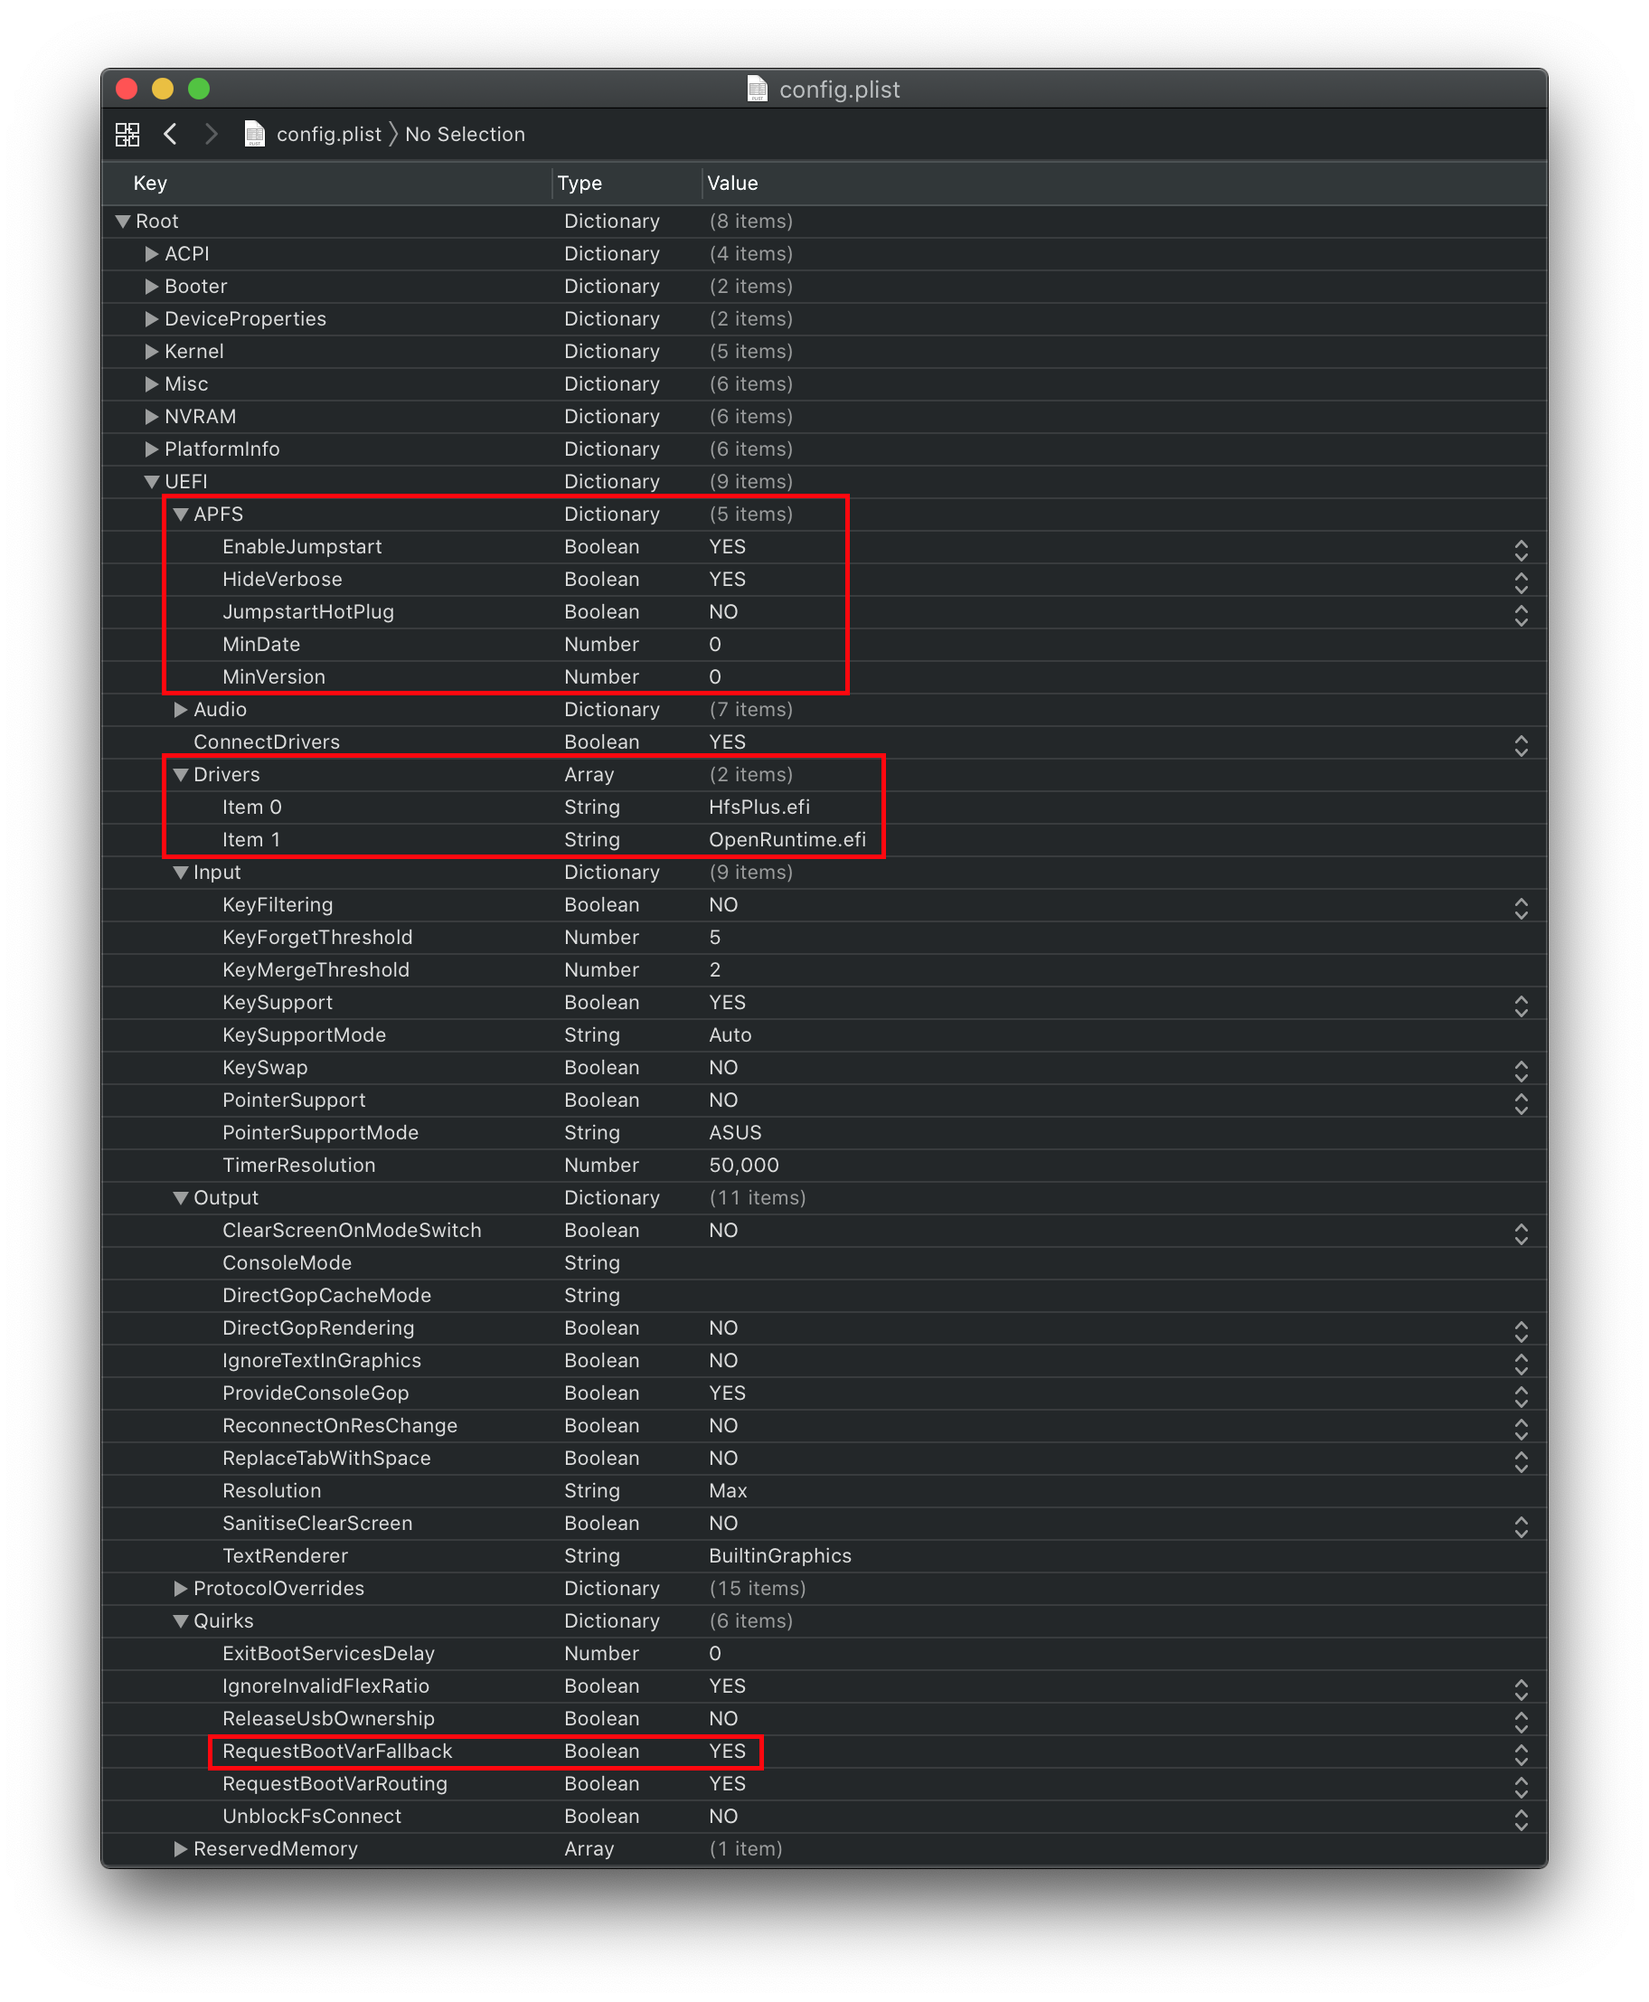
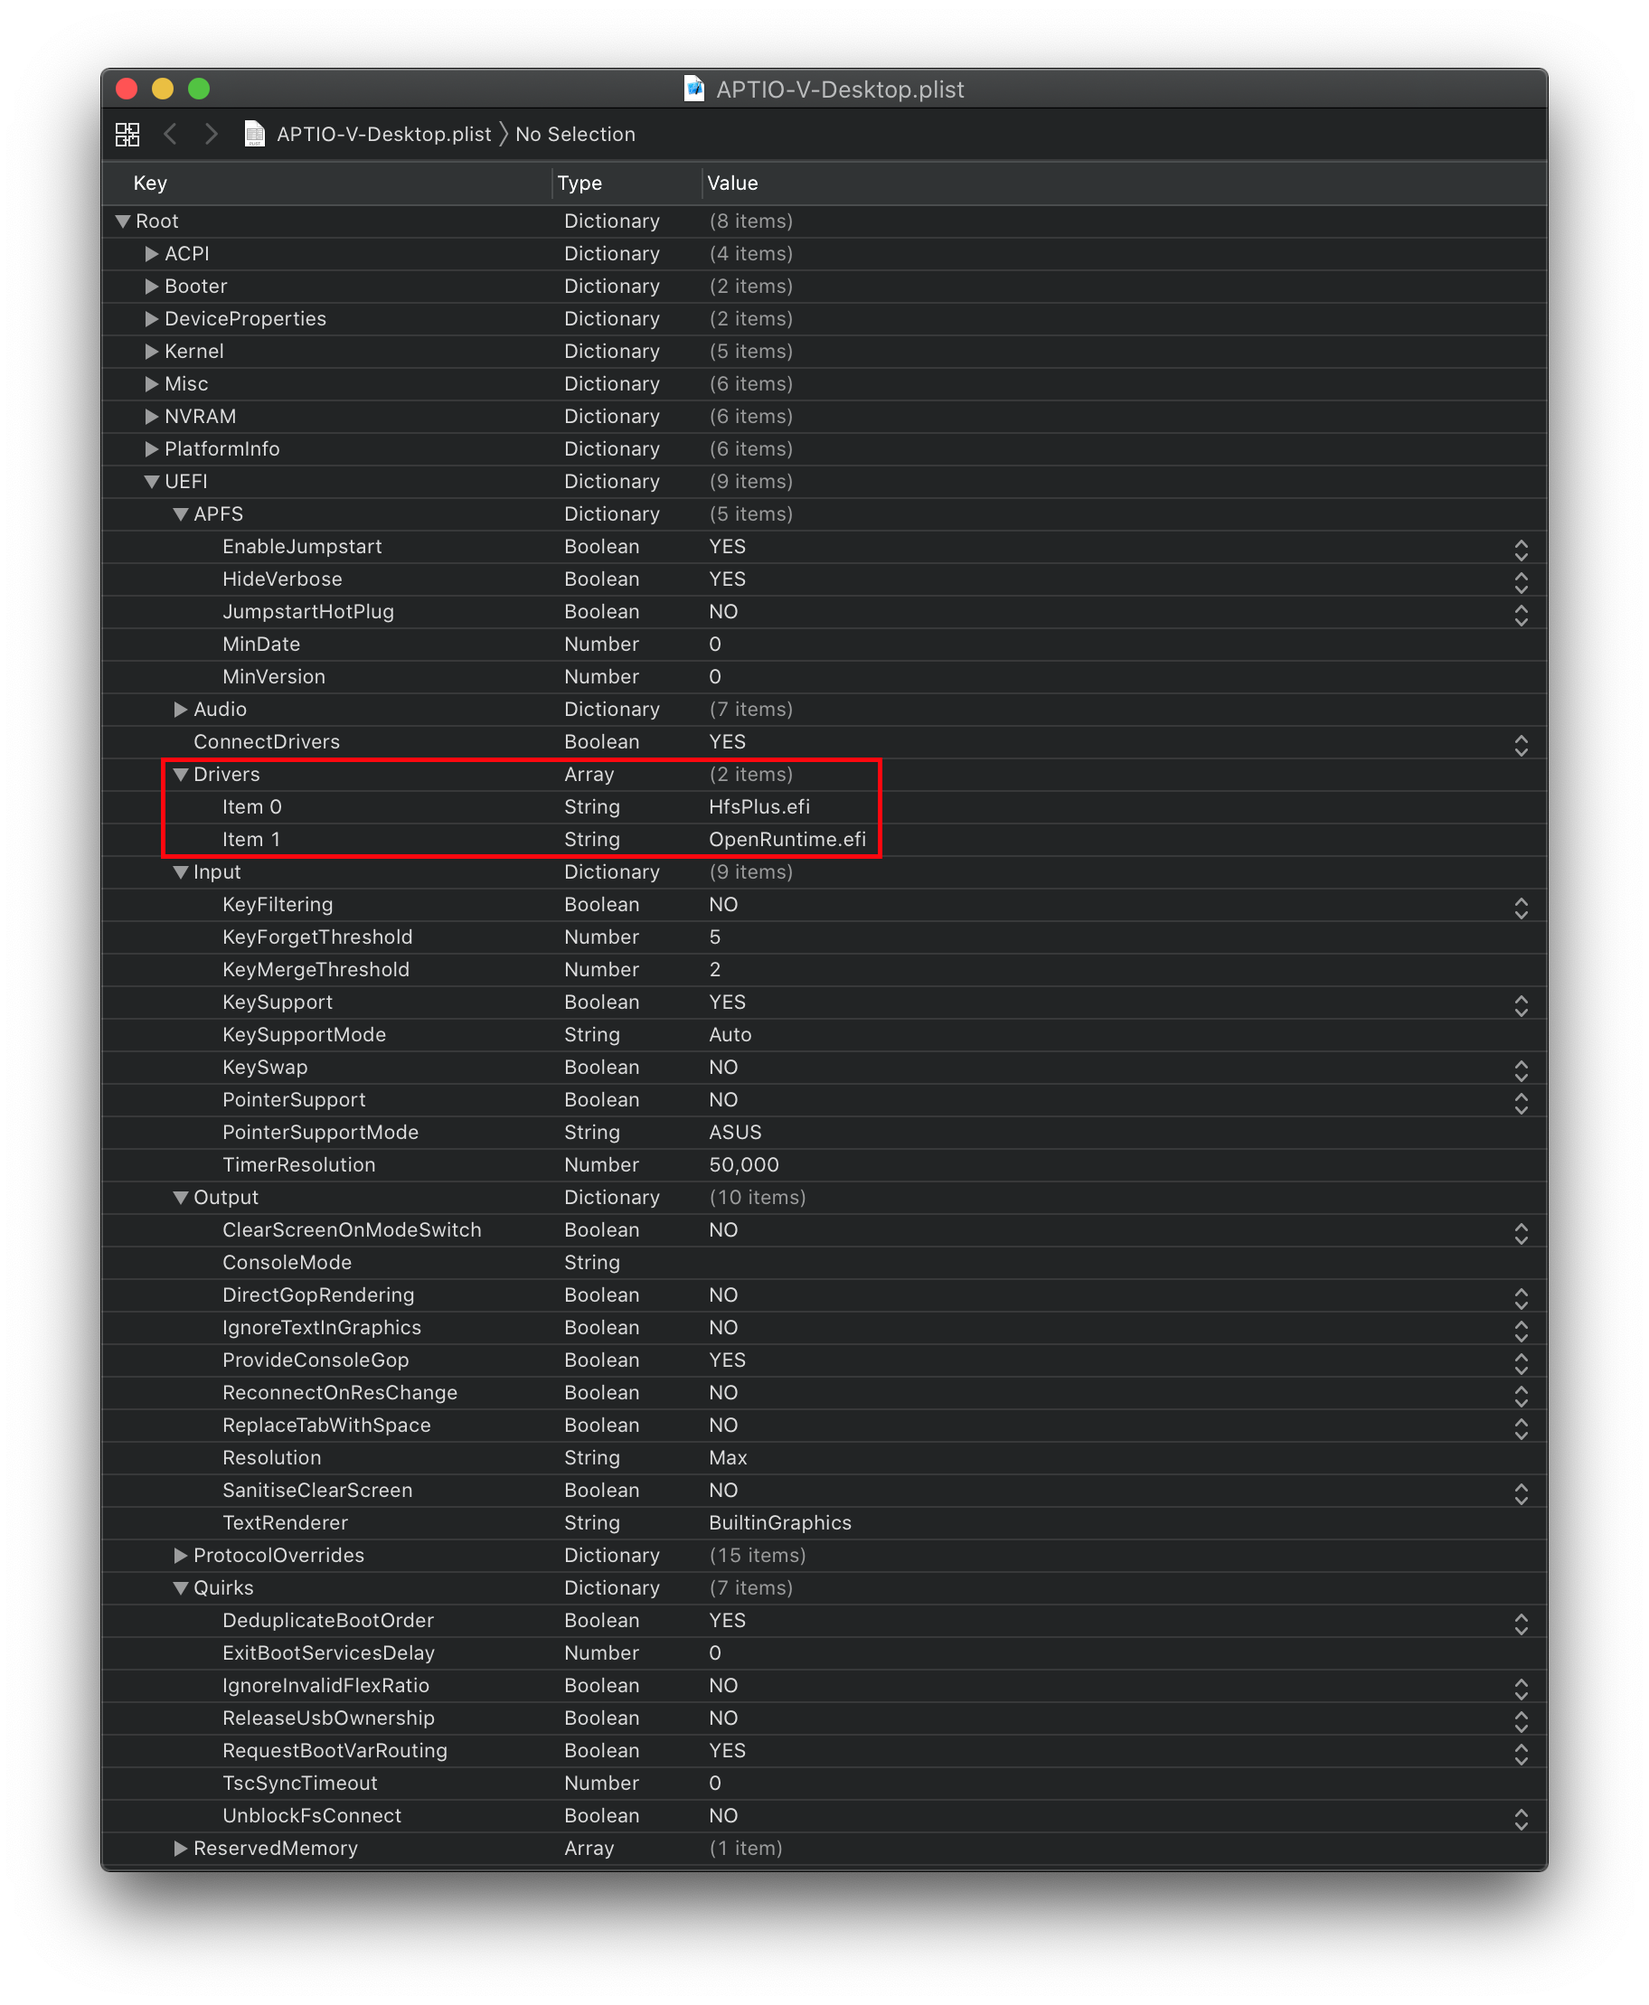
Final 0.5.9 touchups

diff --git a/config.plist/comet-lake.md b/config.plist/comet-lake.md
@@ -1,6 +1,7 @@
 # Comet Lake
 
-* Supported version: 0.5.8
+* Supported version: 0.5.9
+* **Note**: This guide only supports Comet Lake on 10.15.5 or newer
 
 Table of Contents:
 
@@ -193,7 +194,7 @@ Fun Fact: The reason the byte order is swapped is because most modern processors
   * Path to the `info.plist` hidden within the kext
   * ex: `Contents/Info.plist`
 
-**Emulate**: Needed for spoofing unsupported CPUs, thankfully in 10.15.5 Comet Lake S support was added so no need to spoof here.
+**Emulate**: Needed for spoofing unsupported CPUs, thankfully in 10.15.5 Comet Lake S support was added so no need to spoof here. For those running High Sierra or Mojave, you will need the below to spoof to a supported CPU model(due to stability issues, this guide will not go over such CPUID spoofs)
 
 **Block**: Blocks kexts from loading. Not relevant for us
 
@@ -544,16 +545,18 @@ Only drivers present here should be:
 
 **Quirks**:
 
+* **DeduplicateBootOrder**: YES
+  * Request fallback of some Boot prefixed variables from `OC_VENDOR_VARIABLE_GUID` to `EFI_GLOBAL_VARIABLE_GUID`. Used for fixing boot options.
 * **ExitBootServicesDelay**: `0`
   * Only required for very specific use cases like setting to `3000` - `5000` for ASUS Z87-Pro running FileVault 2
 * **IgnoreInvalidFlexRatio**: NO
   * Fix for when MSR\_FLEX\_RATIO (0x194) can't be disabled in the BIOS, required for all pre-Skylake based systems
 * **ReleaseUsbOwnership**: NO
   * Releases USB controller from firmware driver, needed for when your firmware doesn't support EHCI/XHCI Handoff. Clover equivalent is `FixOwnership`
-* **RequestBootVarFallback**: YES
-  * Request fallback of some Boot prefixed variables from `OC_VENDOR_VARIABLE_GUID` to `EFI_GLOBAL_VARIABLE_GUID`. Used for fixing boot options.
 * **RequestBootVarRouting**: YES
   * Redirects AptioMemoryFix from `EFI_GLOBAL_VARIABLE_GUID` to `OC\_VENDOR\_VARIABLE\_GUID`. Needed for when firmware tries to delete boot entries and is recommended to be enabled on all systems for correct update installation, Startup Disk control panel functioning, etc.
+* **TscSyncTimeout**: `0`
+  * Attempts to fix the TSC on badly behaving platforms, mainly relevant for those running debug kernels as this quirks cannot fix S3 wakes. Instead VoodooTsc is the preferred option.
 * **UnblockFsConnect**: NO
   * Some firmware block partition handles by opening them in By Driver mode, which results in File System protocols being unable to install. Mainly relevant for HP systems when no drives are listed
 

diff --git a/config.plist/haswell.md b/config.plist/haswell.md
@@ -1,6 +1,6 @@
 # Haswell
 
-* Supported version: 0.5.8
+* Supported version: 0.5.9
 
 **Both Haswell and Broadwell users can follow this**
 
@@ -584,6 +584,8 @@ Only drivers present here should be:
   * Releases USB controller from firmware driver, needed for when your firmware doesn't support EHCI/XHCI Handoff. Clover equivalent is `FixOwnership`
 * **RequestBootVarRouting**: YES
   * Redirects AptioMemoryFix from `EFI_GLOBAL_VARIABLE_GUID` to `OC\_VENDOR\_VARIABLE\_GUID`. Needed for when firmware tries to delete boot entries and is recommended to be enabled on all systems for correct update installation, Startup Disk control panel functioning, etc.
+* **TscSyncTimeout**: `0`
+  * Attempts to fix the TSC on badly behaving platforms, mainly relevant for those running debug kernels as this quirks cannot fix S3 wakes. Instead VoodooTsc is the preferred option.
 * **UnblockFsConnect**: NO
   * Some firmware block partition handles by opening them in By Driver mode, which results in File System protocols being unable to install. Mainly relevant for HP systems when no drives are listed
 

diff --git a/config-HEDT/skylake-x.md b/config-HEDT/skylake-x.md
@@ -1,6 +1,6 @@
 # Skylake-X/W and Cascade Lake-X/W
 
-* Supported version: 0.5.8
+* Supported version: 0.5.9
 
 Table of Contents:
 
@@ -517,6 +517,8 @@ Only drivers present here should be:
   * Request fallback of some Boot prefixed variables from `OC_VENDOR_VARIABLE_GUID` to `EFI_GLOBAL_VARIABLE_GUID`. Used for fixing boot options.
 * **RequestBootVarRouting**: YES
   * Redirects AptioMemoryFix from `EFI_GLOBAL_VARIABLE_GUID` to `OC\_VENDOR\_VARIABLE\_GUID`. Needed for when firmware tries to delete boot entries and is recommended to be enabled on all systems for correct update installation, Startup Disk control panel functioning, etc.
+* **TscSyncTimeout**: `0`
+  * Attempts to fix the TSC on badly behaving platforms, mainly relevant for those running debug kernels as this quirks cannot fix S3 wakes. Instead VoodooTsc is the preferred option.
 * **UnblockFsConnect**: NO
   * Some firmware block partition handles by opening them in By Driver mode, which results in File System protocols being unable to install. Mainly relevant for HP systems when no drives are listed
 

diff --git a/AMD/fx.md b/AMD/fx.md
@@ -1,6 +1,6 @@
 # Bulldozer(15h) and Jaguar(16h)
 
-* Supported version: 0.5.8
+* Supported version: 0.5.9
 
 Table of Contents:
 
@@ -536,6 +536,8 @@ Only drivers present here should be:
   * Request fallback of some Boot prefixed variables from `OC_VENDOR_VARIABLE_GUID` to `EFI_GLOBAL_VARIABLE_GUID`. Used for fixing boot options.
 * **RequestBootVarRouting**: YES
   * Redirects AptioMemoryFix from `EFI_GLOBAL_VARIABLE_GUID` to `OC\_VENDOR\_VARIABLE\_GUID`. Needed for when firmware tries to delete boot entries and is recommended to be enabled on all systems for correct update installation, Startup Disk control panel functioning, etc.
+* **TscSyncTimeout**: `0`
+  * Attempts to fix the TSC on badly behaving platforms, mainly relevant for those running debug kernels as this quirks cannot fix S3 wakes. Instead VoodooTsc is the preferred option.
 * **UnblockFsConnect**: NO
   * Some firmware block partition handles by opening them in By Driver mode, which results in File System protocols being unable to install. Mainly relevant for HP systems when no drives are listed
 

diff --git a/AMD/zen.md b/AMD/zen.md
@@ -1,6 +1,6 @@
 # Ryzen and Threadripper(17h)
 
-* Supported version: 0.5.8
+* Supported version: 0.5.9
 
 Table of Contents:
 
@@ -537,6 +537,8 @@ Only drivers present here should be:
   * Request fallback of some Boot prefixed variables from `OC_VENDOR_VARIABLE_GUID` to `EFI_GLOBAL_VARIABLE_GUID`. Used for fixing boot options.
 * **RequestBootVarRouting**: YES
   * Redirects AptioMemoryFix from `EFI_GLOBAL_VARIABLE_GUID` to `OC\_VENDOR\_VARIABLE\_GUID`. Needed for when firmware tries to delete boot entries and is recommended to be enabled on all systems for correct update installation, Startup Disk control panel functioning, etc.
+* **TscSyncTimeout**: `0`
+  * Attempts to fix the TSC on badly behaving platforms, mainly relevant for those running debug kernels as this quirks cannot fix S3 wakes. Instead VoodooTsc is the preferred option.
 * **UnblockFsConnect**: NO
   * Some firmware block partition handles by opening them in By Driver mode, which results in File System protocols being unable to install. Mainly relevant for HP systems when no drives are listed
 

diff --git a/config-HEDT/broadwell-e.md b/config-HEDT/broadwell-e.md
@@ -1,6 +1,6 @@
 # Broadwell-E
 
-* Supported version: 0.5.8
+* Supported version: 0.5.9
 
 Table of Contents:
 
@@ -520,6 +520,8 @@ Only drivers present here should be:
   * Releases USB controller from firmware driver, needed for when your firmware doesn't support EHCI/XHCI Handoff. Clover equivalent is `FixOwnership`
 * **RequestBootVarRouting**: YES
   * Redirects AptioMemoryFix from `EFI_GLOBAL_VARIABLE_GUID` to `OC\_VENDOR\_VARIABLE\_GUID`. Needed for when firmware tries to delete boot entries and is recommended to be enabled on all systems for correct update installation, Startup Disk control panel functioning, etc.
+* **TscSyncTimeout**: `0`
+  * Attempts to fix the TSC on badly behaving platforms, mainly relevant for those running debug kernels as this quirks cannot fix S3 wakes. Instead VoodooTsc is the preferred option.
 * **UnblockFsConnect**: NO
   * Some firmware block partition handles by opening them in By Driver mode, which results in File System protocols being unable to install. Mainly relevant for HP systems when no drives are listed
 

diff --git a/config.plist/ivy-bridge.md b/config.plist/ivy-bridge.md
@@ -1,6 +1,6 @@
 # Ivy Bridge
 
-* Supported version: 0.5.8
+* Supported version: 0.5.9
 
 Table of Contents:
 
@@ -566,6 +566,8 @@ Only drivers present here should be:
   * Releases USB controller from firmware driver, needed for when your firmware doesn't support EHCI/XHCI Handoff. Clover equivalent is `FixOwnership`
 * **RequestBootVarRouting**: YES
   * Redirects AptioMemoryFix from `EFI_GLOBAL_VARIABLE_GUID` to `OC\_VENDOR\_VARIABLE\_GUID`. Needed for when firmware tries to delete boot entries and is recommended to be enabled on all systems for correct update installation, Startup Disk control panel functioning, etc.
+* **TscSyncTimeout**: `0`
+  * Attempts to fix the TSC on badly behaving platforms, mainly relevant for those running debug kernels as this quirks cannot fix S3 wakes. Instead VoodooTsc is the preferred option.
 * **UnblockFsConnect**: NO
   * Some firmware block partition handles by opening them in By Driver mode, which results in File System protocols being unable to install. Mainly relevant for HP systems when no drives are listed
 

diff --git a/config-HEDT/haswell-e.md b/config-HEDT/haswell-e.md
@@ -1,6 +1,6 @@
 # Haswell-E
 
-* Supported version: 0.5.8
+* Supported version: 0.5.9
 
 Table of Contents:
 
@@ -520,6 +520,8 @@ Only drivers present here should be:
   * Releases USB controller from firmware driver, needed for when your firmware doesn't support EHCI/XHCI Handoff. Clover equivalent is `FixOwnership`
 * **RequestBootVarRouting**: YES
   * Redirects AptioMemoryFix from `EFI_GLOBAL_VARIABLE_GUID` to `OC\_VENDOR\_VARIABLE\_GUID`. Needed for when firmware tries to delete boot entries and is recommended to be enabled on all systems for correct update installation, Startup Disk control panel functioning, etc.
+* **TscSyncTimeout**: `0`
+  * Attempts to fix the TSC on badly behaving platforms, mainly relevant for those running debug kernels as this quirks cannot fix S3 wakes. Instead VoodooTsc is the preferred option.
 * **UnblockFsConnect**: NO
   * Some firmware block partition handles by opening them in By Driver mode, which results in File System protocols being unable to install. Mainly relevant for HP systems when no drives are listed
 

diff --git a/config.plist/coffee-lake.md b/config.plist/coffee-lake.md
@@ -1,6 +1,6 @@
 # Coffee Lake
 
-* Supported version: 0.5.8
+* Supported version: 0.5.9
 
 Table of Contents:
 
@@ -564,6 +564,8 @@ Only drivers present here should be:
   * Request fallback of some Boot prefixed variables from `OC_VENDOR_VARIABLE_GUID` to `EFI_GLOBAL_VARIABLE_GUID`. Used for fixing boot options.
 * **RequestBootVarRouting**: YES
   * Redirects AptioMemoryFix from `EFI_GLOBAL_VARIABLE_GUID` to `OC\_VENDOR\_VARIABLE\_GUID`. Needed for when firmware tries to delete boot entries and is recommended to be enabled on all systems for correct update installation, Startup Disk control panel functioning, etc.
+* **TscSyncTimeout**: `0`
+  * Attempts to fix the TSC on badly behaving platforms, mainly relevant for those running debug kernels as this quirks cannot fix S3 wakes. Instead VoodooTsc is the preferred option.
 * **UnblockFsConnect**: NO
   * Some firmware block partition handles by opening them in By Driver mode, which results in File System protocols being unable to install. Mainly relevant for HP systems when no drives are listed
 

diff --git a/config.plist/kaby-lake.md b/config.plist/kaby-lake.md
@@ -1,6 +1,6 @@
 # Kaby Lake
 
-* Supported version: 0.5.8
+* Supported version: 0.5.9
 
 Table of Contents:
 
@@ -556,6 +556,8 @@ Only drivers present here should be:
   * Request fallback of some Boot prefixed variables from `OC_VENDOR_VARIABLE_GUID` to `EFI_GLOBAL_VARIABLE_GUID`. Used for fixing boot options.
 * **RequestBootVarRouting**: YES
   * Redirects AptioMemoryFix from `EFI_GLOBAL_VARIABLE_GUID` to `OC\_VENDOR\_VARIABLE\_GUID`. Needed for when firmware tries to delete boot entries and is recommended to be enabled on all systems for correct update installation, Startup Disk control panel functioning, etc.
+* **TscSyncTimeout**: `0`
+  * Attempts to fix the TSC on badly behaving platforms, mainly relevant for those running debug kernels as this quirks cannot fix S3 wakes. Instead VoodooTsc is the preferred option.
 * **UnblockFsConnect**: NO
   * Some firmware block partition handles by opening them in By Driver mode, which results in File System protocols being unable to install. Mainly relevant for HP systems when no drives are listed
 

diff --git a/config.plist/skylake.md b/config.plist/skylake.md
@@ -1,6 +1,6 @@
 # Skylake
 
-* Supported version: 0.5.8
+* Supported version: 0.5.9
 
 Table of Contents:
 
@@ -554,6 +554,8 @@ Only drivers present here should be:
   * Request fallback of some Boot prefixed variables from `OC_VENDOR_VARIABLE_GUID` to `EFI_GLOBAL_VARIABLE_GUID`. Used for fixing boot options.
 * **RequestBootVarRouting**: YES
   * Redirects AptioMemoryFix from `EFI_GLOBAL_VARIABLE_GUID` to `OC\_VENDOR\_VARIABLE\_GUID`. Needed for when firmware tries to delete boot entries and is recommended to be enabled on all systems for correct update installation, Startup Disk control panel functioning, etc.
+* **TscSyncTimeout**: `0`
+  * Attempts to fix the TSC on badly behaving platforms, mainly relevant for those running debug kernels as this quirks cannot fix S3 wakes. Instead VoodooTsc is the preferred option.
 * **UnblockFsConnect**: NO
   * Some firmware block partition handles by opening them in By Driver mode, which results in File System protocols being unable to install. Mainly relevant for HP systems when no drives are listed
 

diff --git a/post-install/nvram.md b/post-install/nvram.md
@@ -1,6 +1,6 @@
 # Emulated NVRAM
 
-* Supported version: 0.5.8
+* Supported version: 0.5.9
 
 Table of Contents:
 
@@ -14,6 +14,8 @@ So this section is for those who don't have native NVRAM, the most common hardwa
 * X299
 
 For B360, B365, H310, H370, Z390 users, make sure you have [SSDT-PMC](https://github.com/acidanthera/OpenCorePkg/blob/master/Docs/AcpiSamples/SSDT-PMC.dsl) both under EFI/OC/ACPI and config.plist -> ACPI -> Add. For more info on making and compiling SSDTs, please see [**Getting started with ACPI**](../extras/acpi.md)
+
+**Note**: Desktop Z490 boards do not need this, the chipset's NVRAM is natively supported
 
 ## Cleaning out the Clover gunk
 
